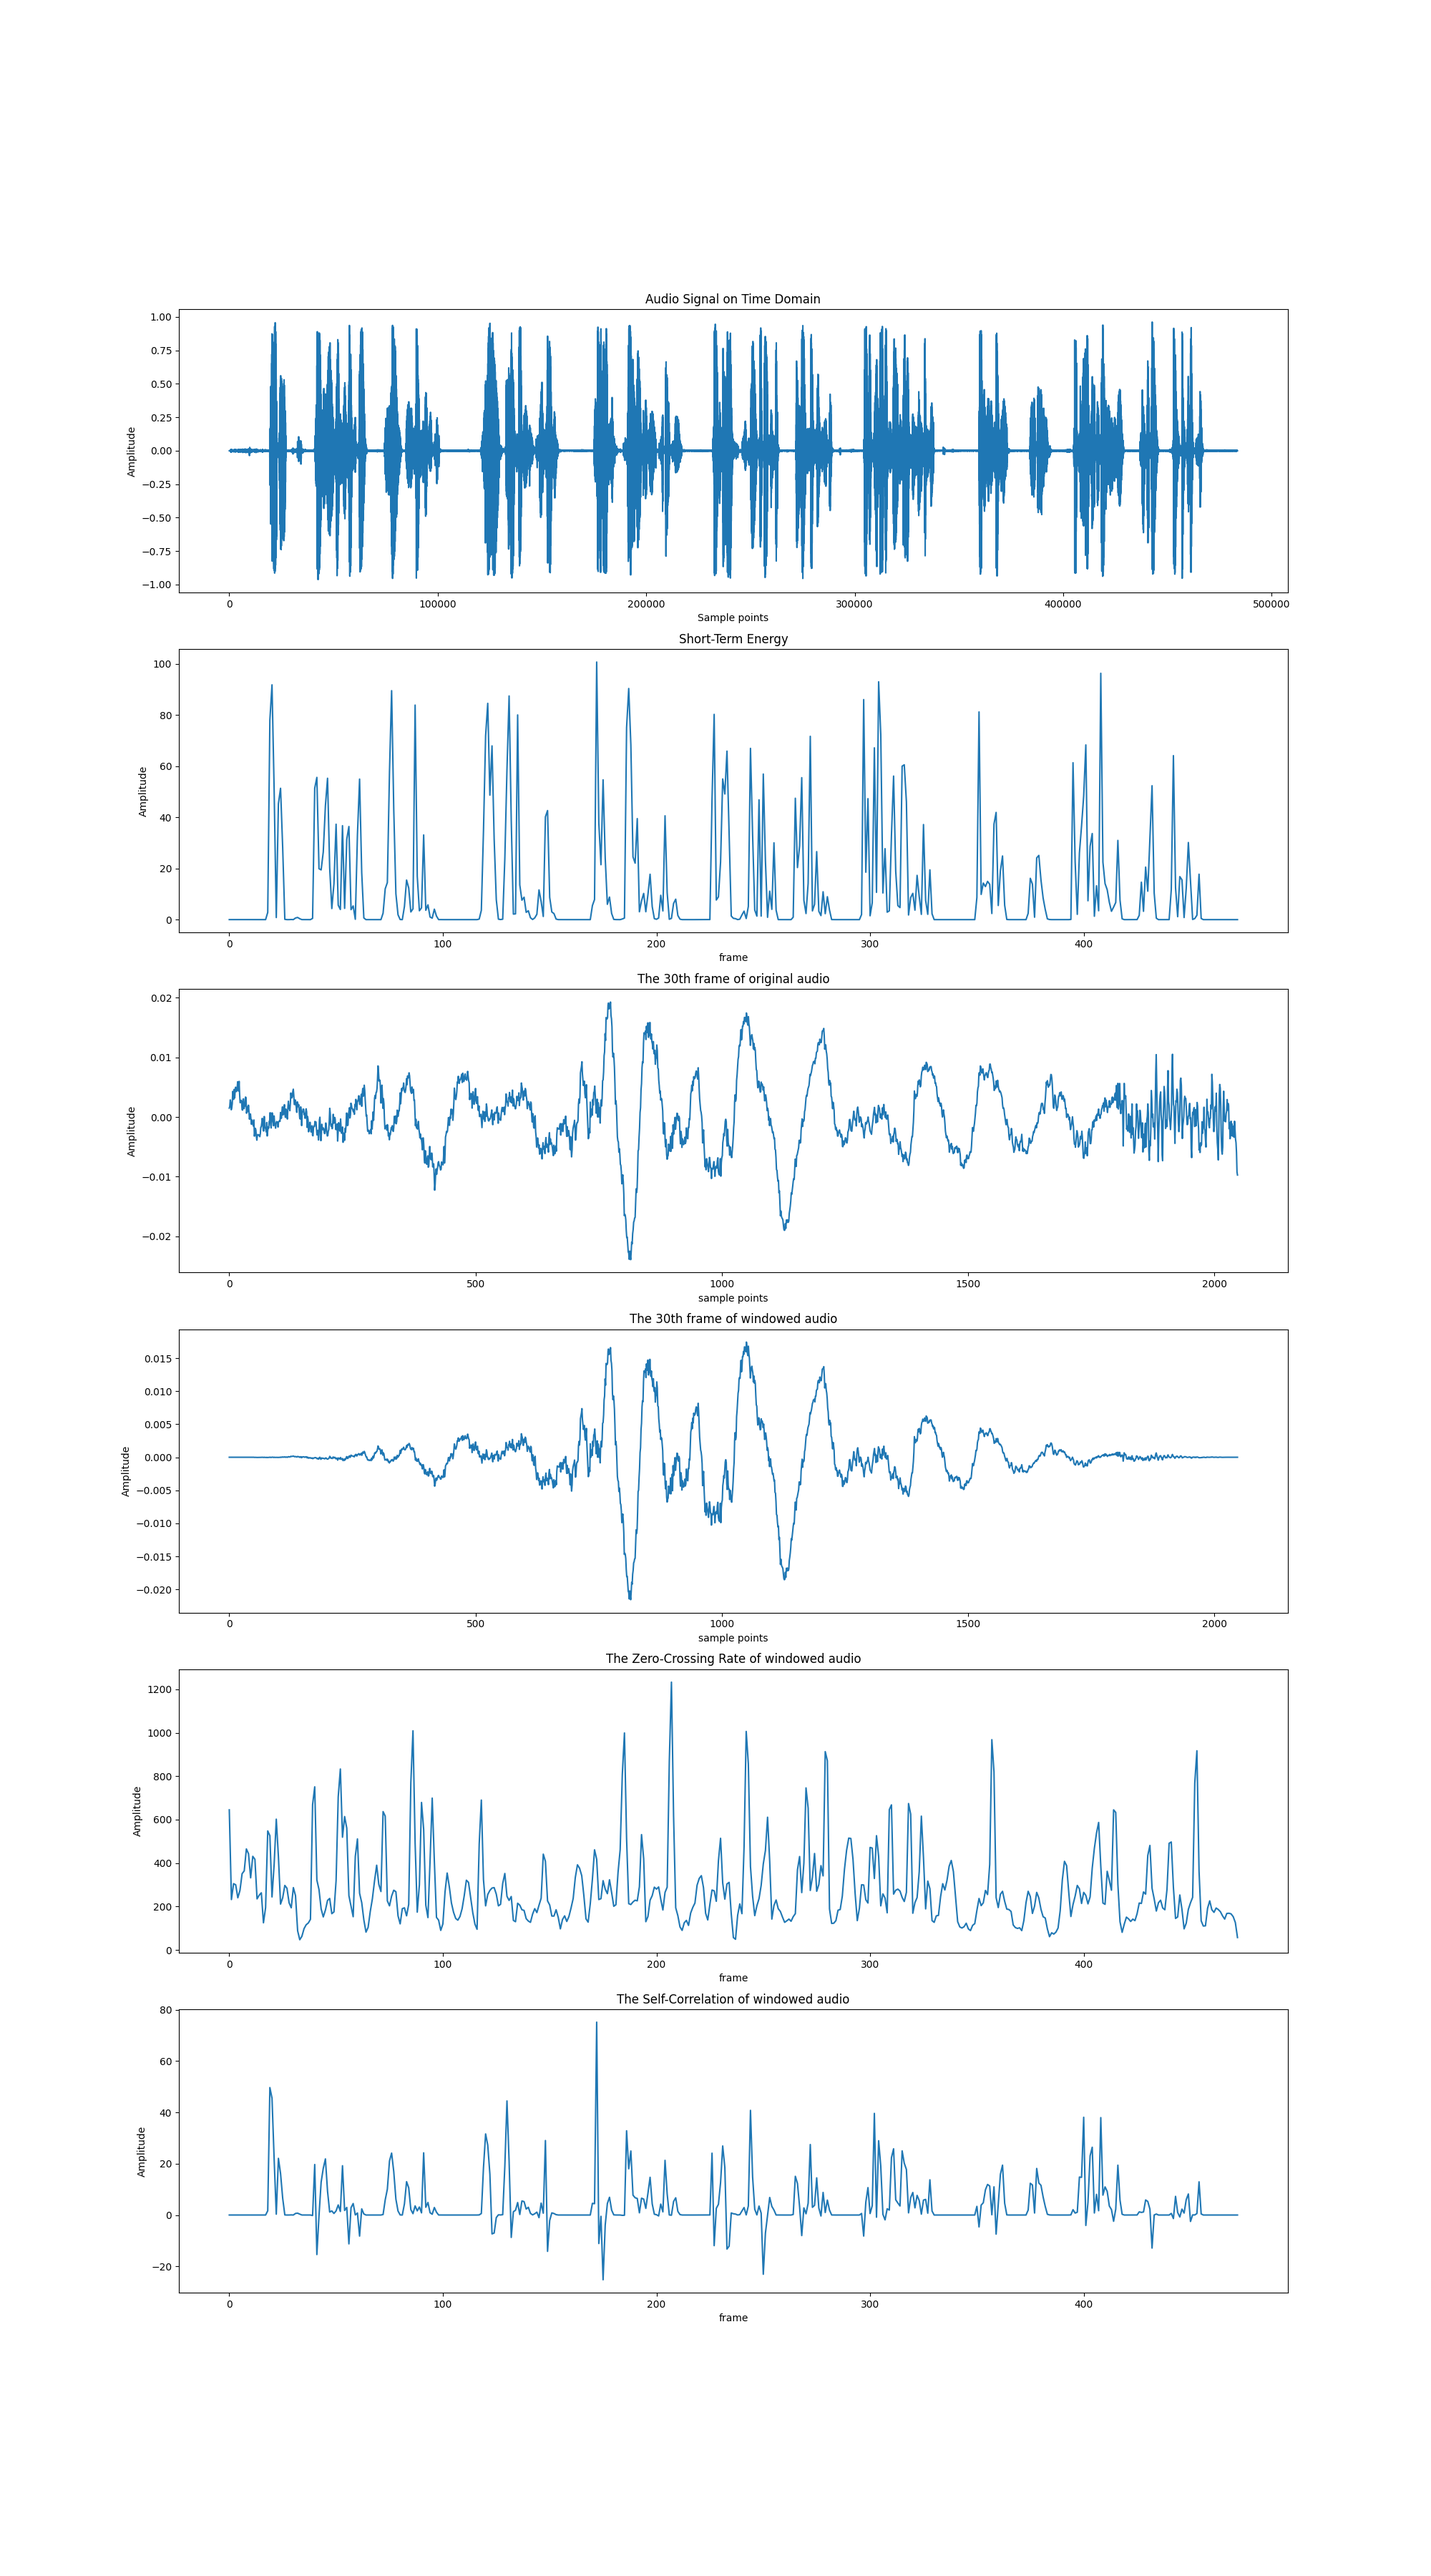
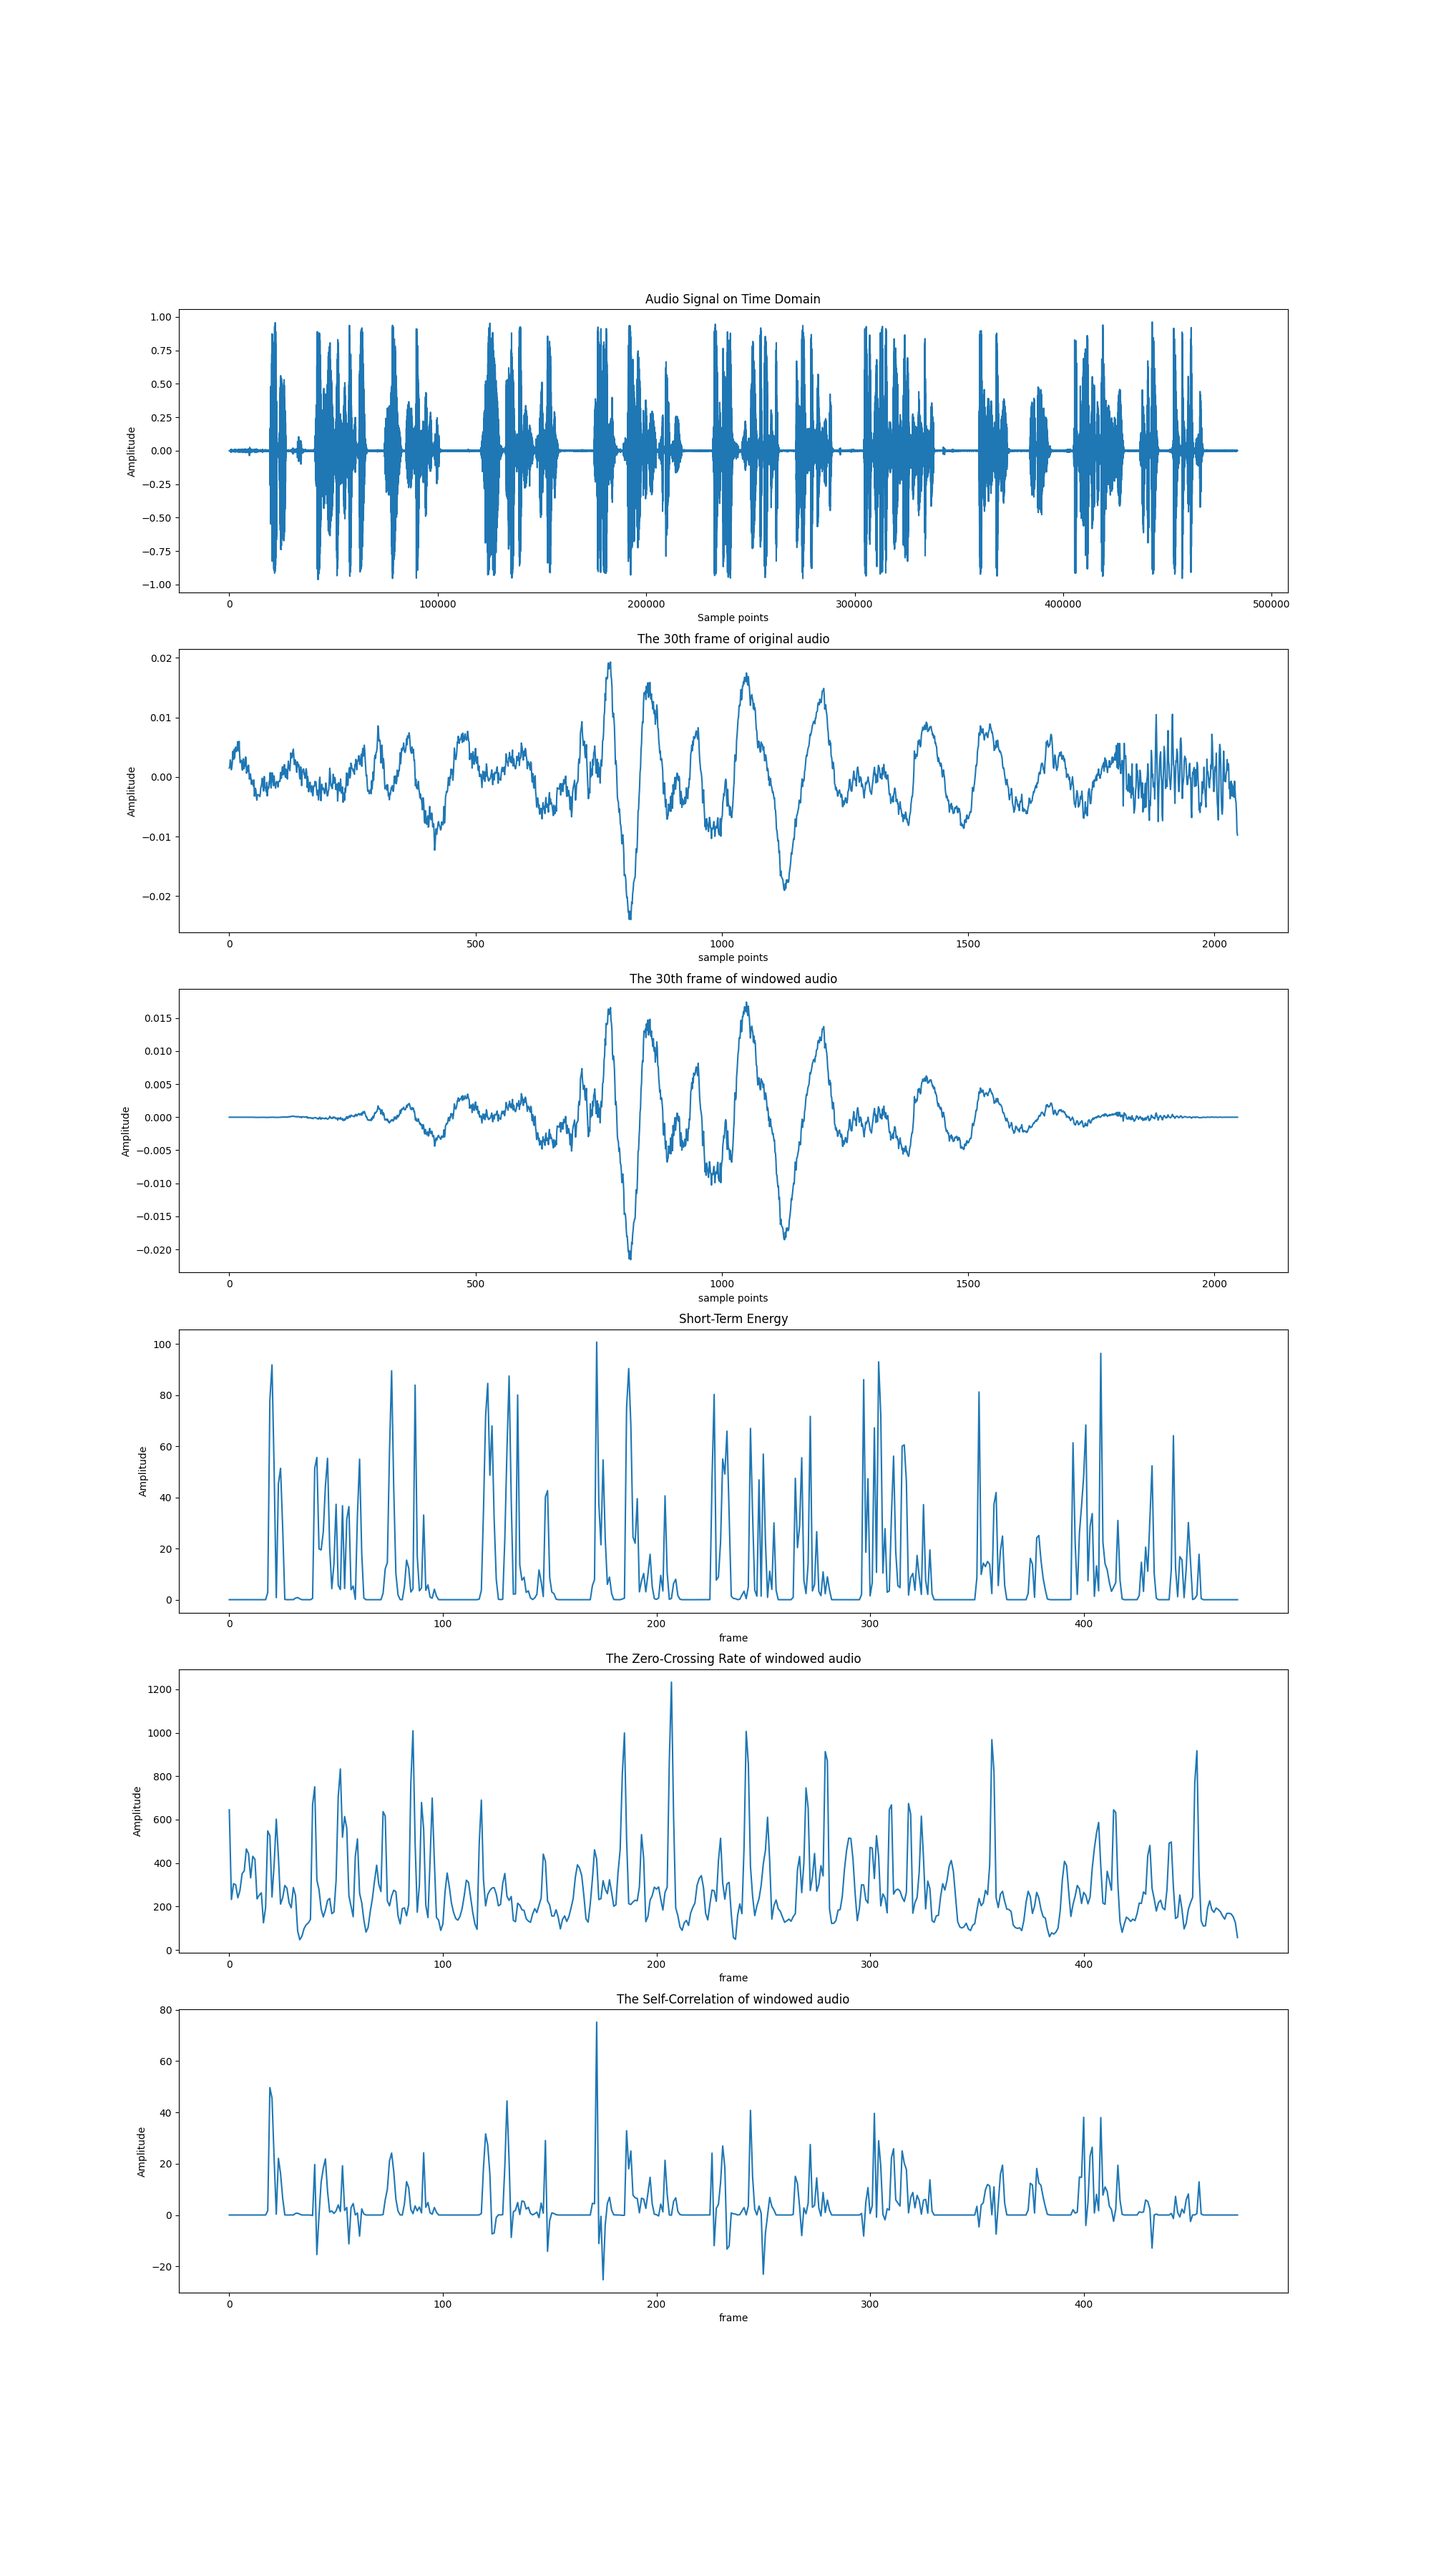
Update

diff --git a/Utils.py b/Utils.py
@@ -50,7 +50,6 @@ def self_correlation(frames, k):
         ret.append(tmpSum)
     return ret
 
-
 # Implement Window: Rectangle/Hanning/Hamming, N is window length
 def build_windows(name='Hamming', N=20):
     # Default none
@@ -115,23 +114,23 @@ def draw_time_domain_diagram(audio, energys, ori_frame, frame, ZCR, SCC):
     plt.title("Audio Signal on Time Domain")
     plt.xlabel("Sample points")
     plt.ylabel("Amplitude")
-    # Short-Term Energy
-    plt.subplot(612)
-    plt.plot(energys)
-    plt.title("Short-Term Energy")
-    plt.xlabel("frame")
-    plt.ylabel("Amplitude")
     # Original 30th frame
-    plt.subplot(613)
+    plt.subplot(612)
     plt.plot(ori_frame)
     plt.title("The 30th frame of original audio")
     plt.xlabel("sample points")
     plt.ylabel("Amplitude")
     # Windowed 30th frame
-    plt.subplot(614)
+    plt.subplot(613)
     plt.plot(frame)
     plt.title("The 30th frame of windowed audio")
     plt.xlabel("sample points")
+    plt.ylabel("Amplitude")
+    # Short-Term Energy
+    plt.subplot(614)
+    plt.plot(energys)
+    plt.title("Short-Term Energy")
+    plt.xlabel("frame")
     plt.ylabel("Amplitude")
     # Zero-Crossing Rate
     plt.subplot(615)

diff --git a/README.md b/README.md
@@ -26,8 +26,10 @@
 
 - 自相关函数在分析随机信号时候是非常有用的。我们在信号与系统中学过，通过傅里叶变换可以将一个时域信号转变为频域，这样可以更简单地分析这个信号的频谱。但这有个前提，那就是我们分析的信号是确定信号，即无噪声的信号（sin就是sin，cos就是cos）。而在真正的通信中，我们的传输环境是非常复杂的，充满了噪声。很多时候噪声的分布服从高斯分布（噪声幅度低的概率大，噪声幅度高的概率小）我们称这种噪声叫高斯白噪声（其对应的信道叫AWGN信道）。在一个信号传输中，这种噪声会叠加在信号上，那接收端我们收到的就不是一个确定信号，而是一个随时间变化的信号。即使我们信号发送端始终发送同一个信号，但由于每次叠加的噪声不同，接收端收到的信号也不同，此时我们管这种信号叫随机信号。随机信号直接进行傅里叶变换后，在频域会产生非常多的噪声频带，如果在噪声较大、信号较小的情况下，噪声的频谱甚至会淹没原信号的频谱，从而让我们无法分析。
 - 而自相关函数的定义我们都知道，Rx(Δt)=E[x(t)*x(t+Δt)]，我们会发现，**如果同一个信号x(t)进行自相关后，还是自己，而不同的信号进行自相关后，数值会变得很小。**不论Δt取多少，在发送端发出的信号始终不变，那么确定信号经过自相关运算后就保存了下来，而由于噪声每一时刻都不同，自相关后噪声就趋近于0了。然后我们又知道维纳-辛钦定理，自相关函数的傅里叶变换是功率谱，这样我们又一次将时域信号转换到频域进行分析，同时还滤除了噪声，唯一的不同只是原来的确定信号时域纵轴是电压V，现在的功率谱纵轴是功率W，二者成平方关系罢了。
-
-
+- 短时自相关函数主要应用于**端点检测和基音的提取**，在韵母基因频率整数倍处将出现峰值特性，通常根据除R(0)外的第一峰值来估计基音，而在声母的短时自相关函数中看不到明显的峰值。
+- **一般在较宽的窗下计算**
+- **自相关的幅度图代表的意义？** 振幅大小（绝对值）与该帧中正在说话的可能性，以及原始音频数据的振幅有关
+- 若：短时能量大 + 过零率大，则自相关振幅 < 短时能量振幅，原因是正负抵消（？）
 
 -------------
 
@@ -35,3 +37,20 @@
 
 - 区分浊音和清音段，因为浊音的短时能量𝐸(𝑖)E(i)比清音大很多；
 - 区分声母和韵母的分界和无话段和有话段的分界
+
+-------
+
+## 5. 短时平均过零率
+
+	对于连续语音信号，过零率意味着时域波形通过时间轴，对于离散信号，如果相邻的取样值改变符号，则称为过零。**浊音时具有较低的过零率，而清音时具有较高的过零率。**
+
+**作用**：
+
+- 利用短时平均过零率可以从背景噪声中找出语音信号；
+- 可以用于判断寂静无话段与有话段的起点和终止位置；
+- **在背景噪声较小的时候，用平均能量识别较为有效，在背景噪声较大的时候，用短时平均过零率识别较为有效**。
+
+------------
+
+
+
